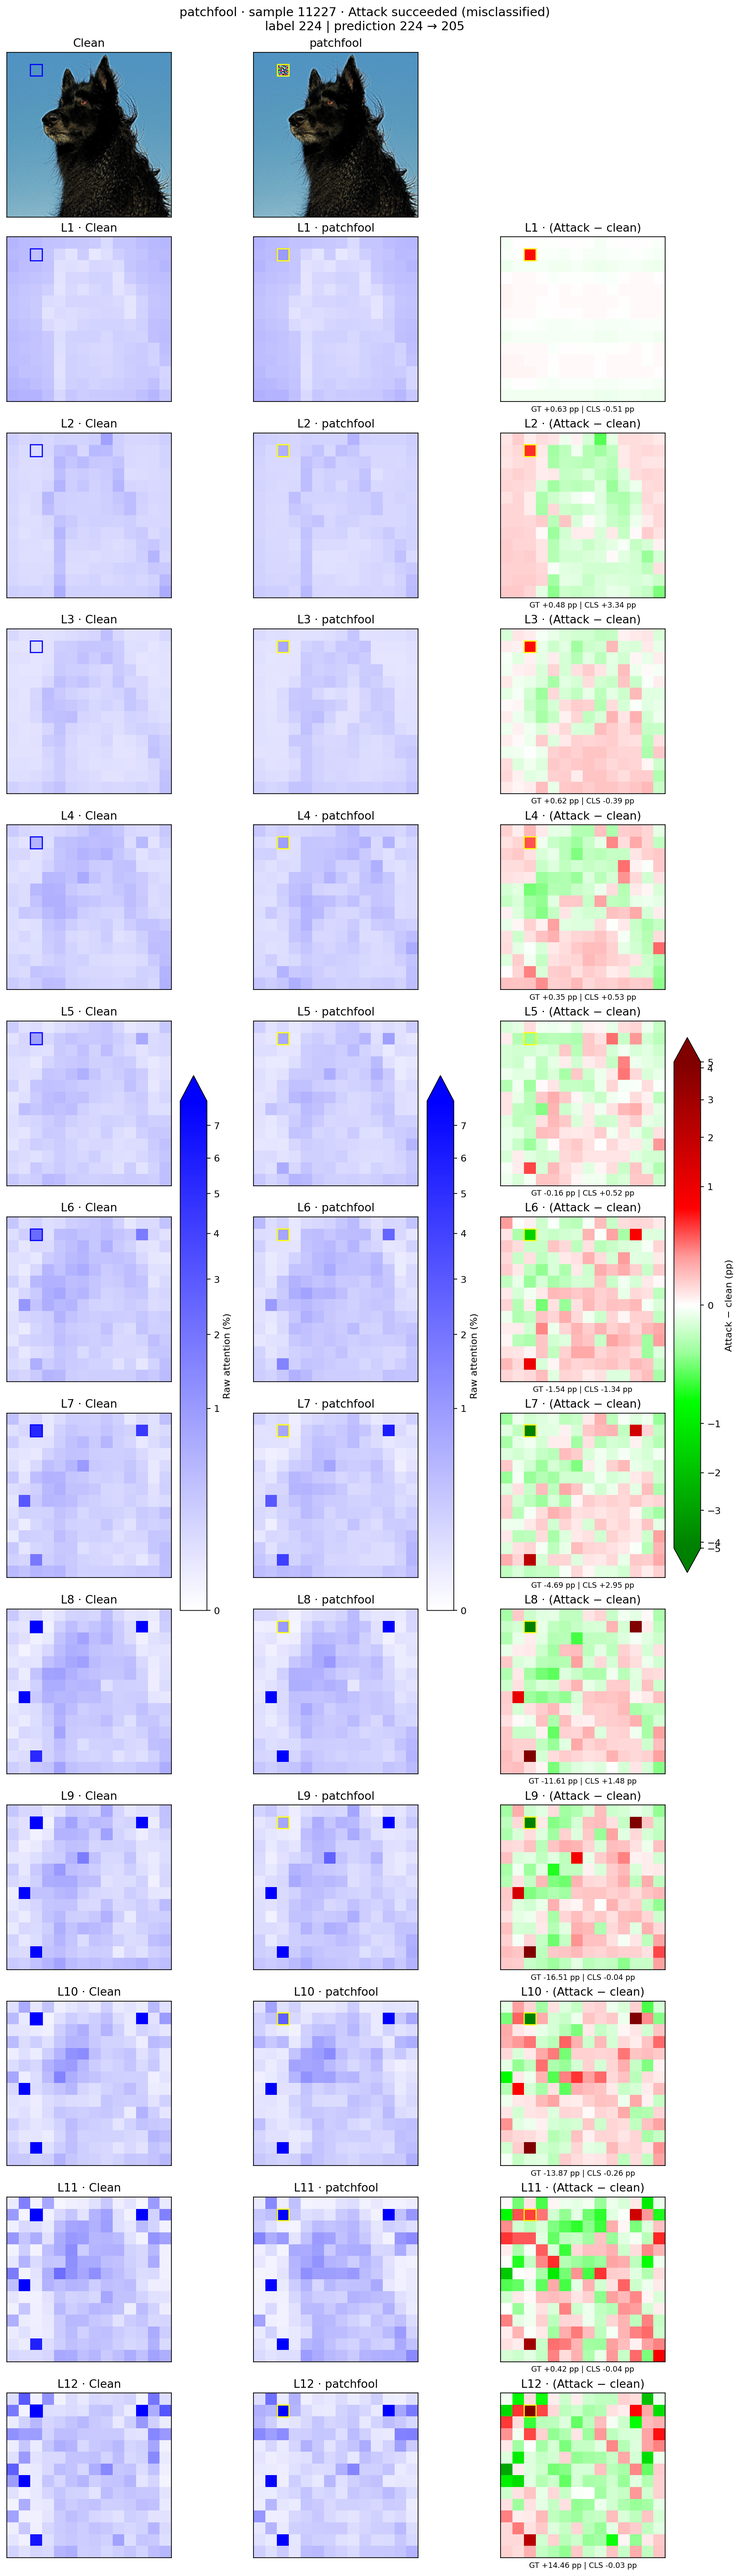
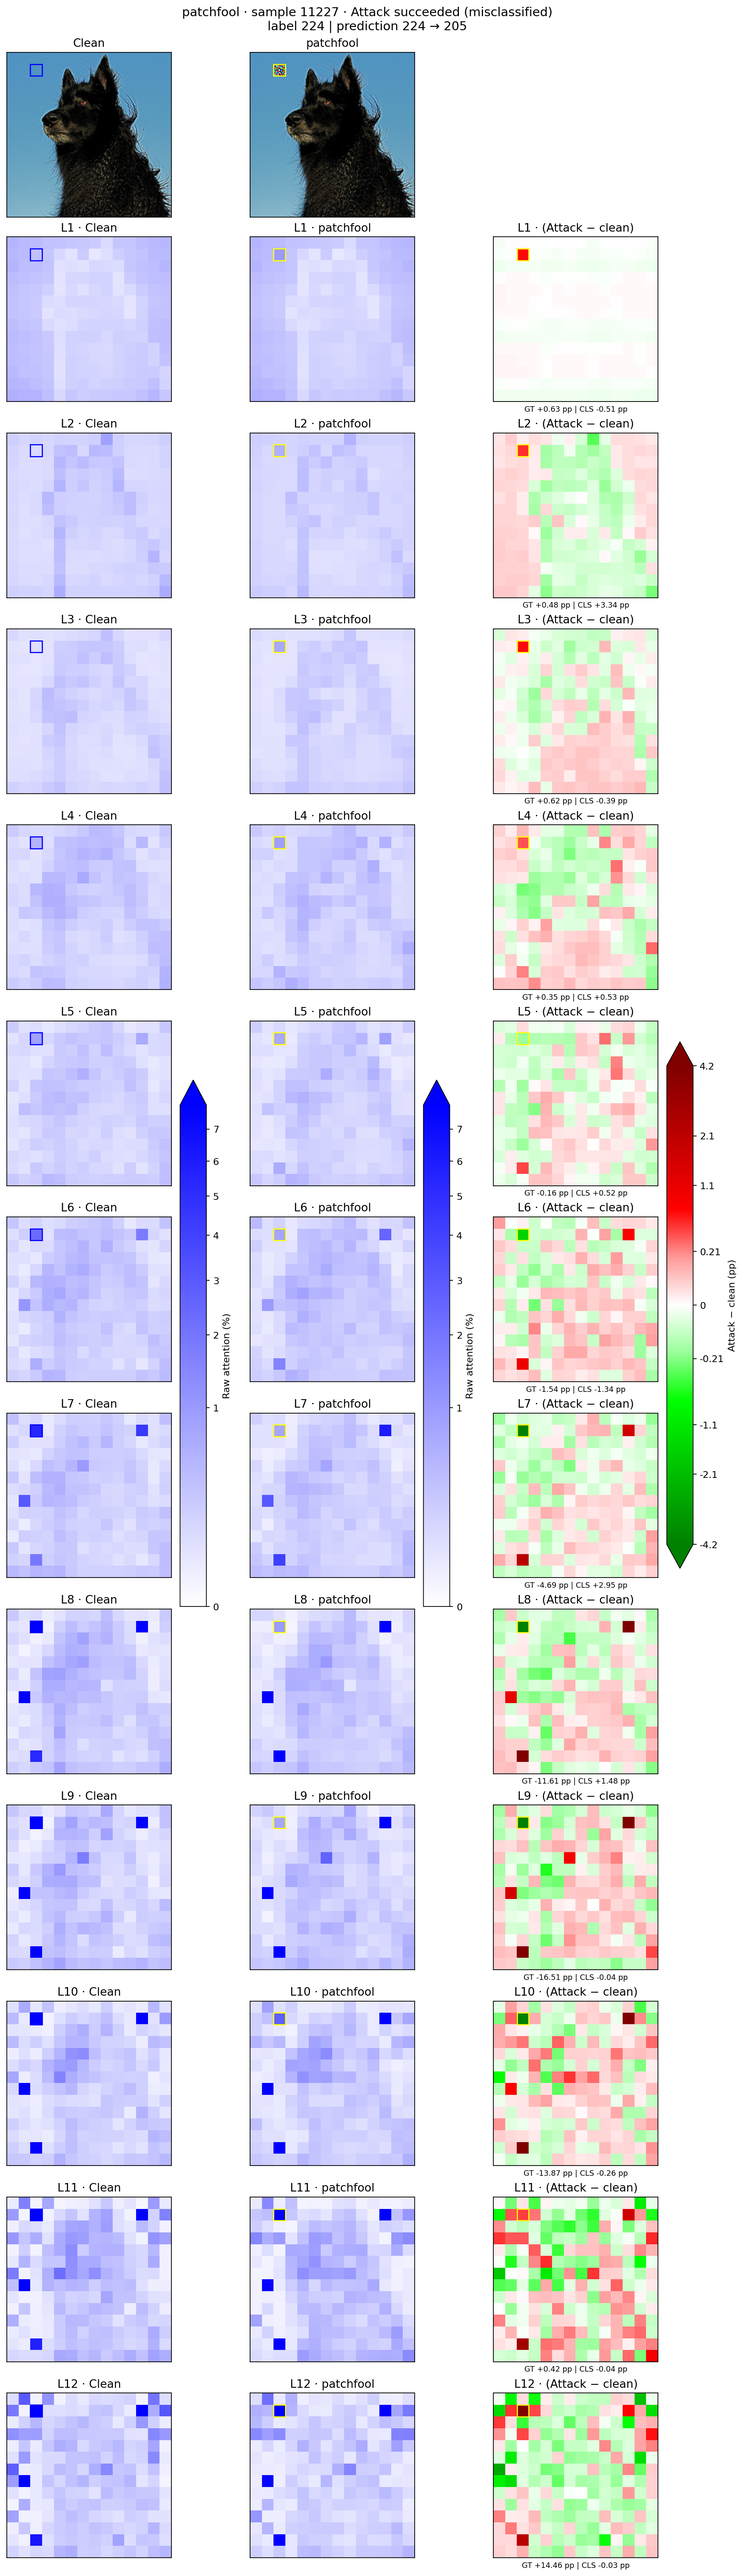
Diff colorbar: evenly spaced ticks at fractions of the cap (integer ticks crowded at the ends under the power scale)

diff --git a/01_patch_attack_detector/experiments/characterization/02_compare_attention_success_failure.py b/01_patch_attack_detector/experiments/characterization/02_compare_attention_success_failure.py
@@ -227,8 +227,14 @@ def draw_maps(data, manifest, attack, sample_i, metrics, layers, scales, status_
     for column, label, extend in [(0, 'Raw attention (%)', 'max'),
                                    (1, 'Raw attention (%)', 'max'),
                                    (2, 'Attack − clean (pp)', 'both')]:
-        figure.colorbar(column_image[column], ax=[axes[r, column] for r in range(n_rows)],
-                        shrink=.85, extend=extend, label=label)
+        bar = figure.colorbar(column_image[column], ax=[axes[r, column] for r in range(n_rows)],
+                              shrink=.85, extend=extend, label=label)
+        if column == 2:
+            # 눈금을 정수(1,2,3...)로 두면 |값|^0.5 스케일 때문에 양 끝 눈금이 겹친다 -- 상한의
+            # 비율로 잡으면 스케일 위에서 간격이 고르다.
+            ticks = np.array([-1, -.5, -.25, -.05, 0, .05, .25, .5, 1]) * delta_max
+            bar.set_ticks(ticks)
+            bar.set_ticklabels([f'{v:.2g}' for v in ticks])
     label_value = int(data['label'][sample_i])
     clean_pred = int(data['clean__prediction'][sample_i])
     attacked_pred = int(data[attack + '__prediction'][sample_i])
